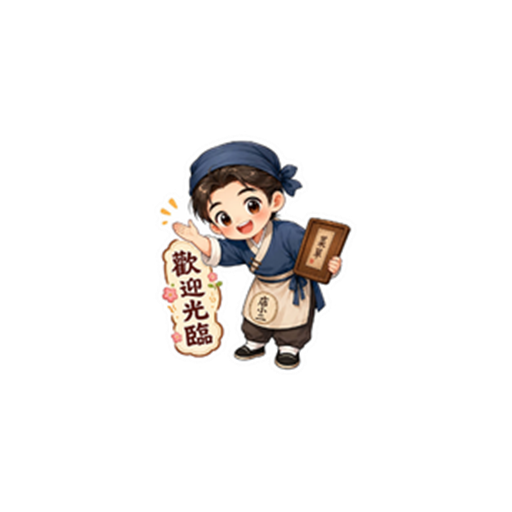
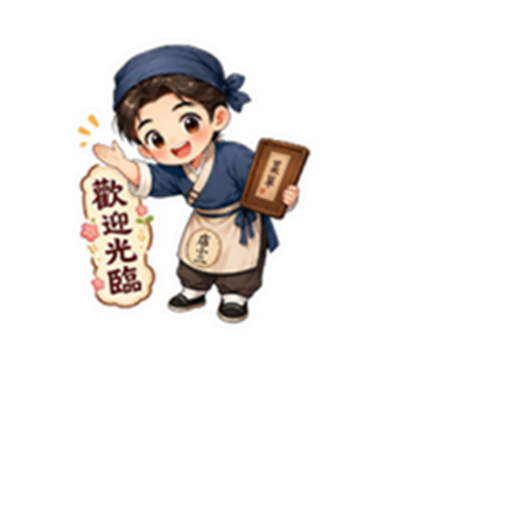
Increase mobile survey character size

Changed region(s): [[0.1562, 0.0625, 0.6875, 0.7188]]

diff --git a/worker.js b/worker.js
@@ -396,13 +396,13 @@ function surveyOpeningMessage() {
                 size: 'full',
                 aspectRatio: '1:1',
                 aspectMode: 'fit',
-                flex: 4,
+                flex: 5,
               },
               {
                 type: 'box',
                 layout: 'vertical',
                 spacing: '6px',
-                flex: 6,
+                flex: 7,
                 contents: [
                   {
                     type: 'text',